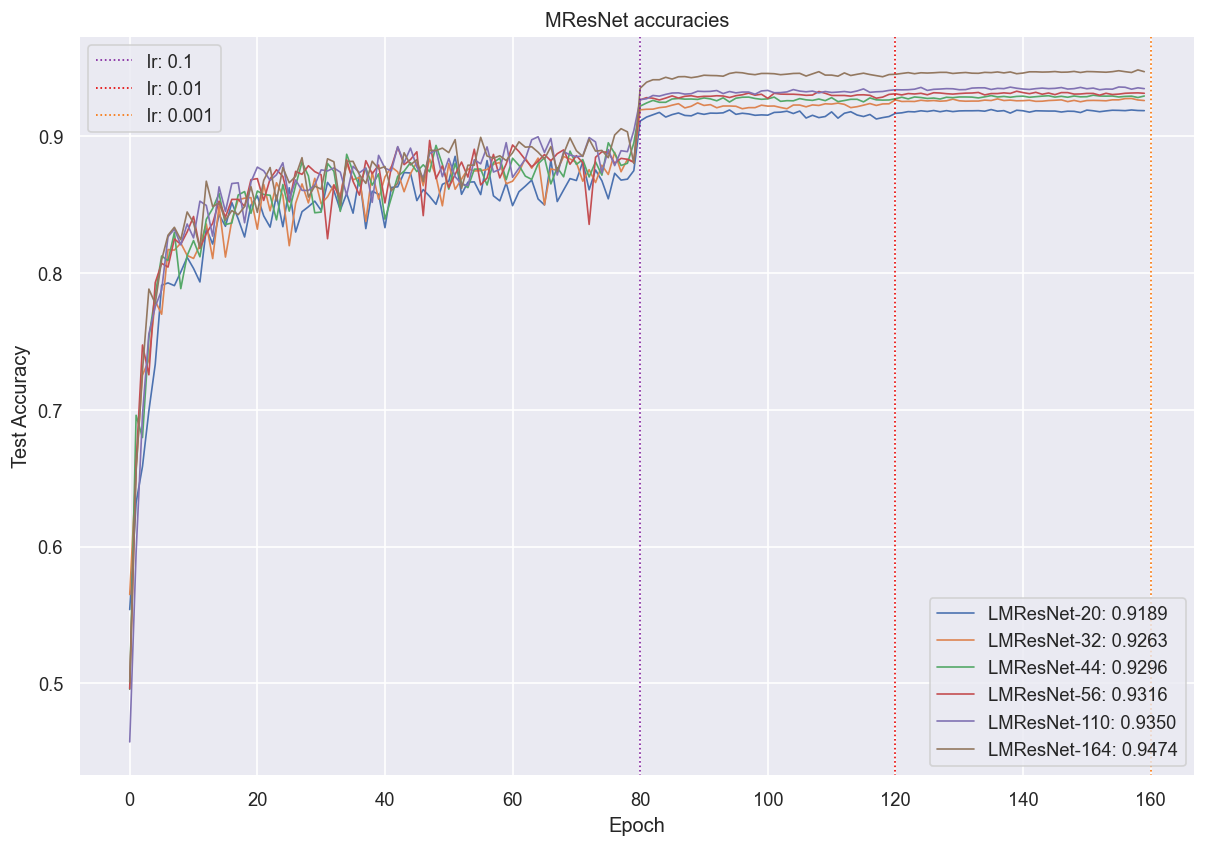
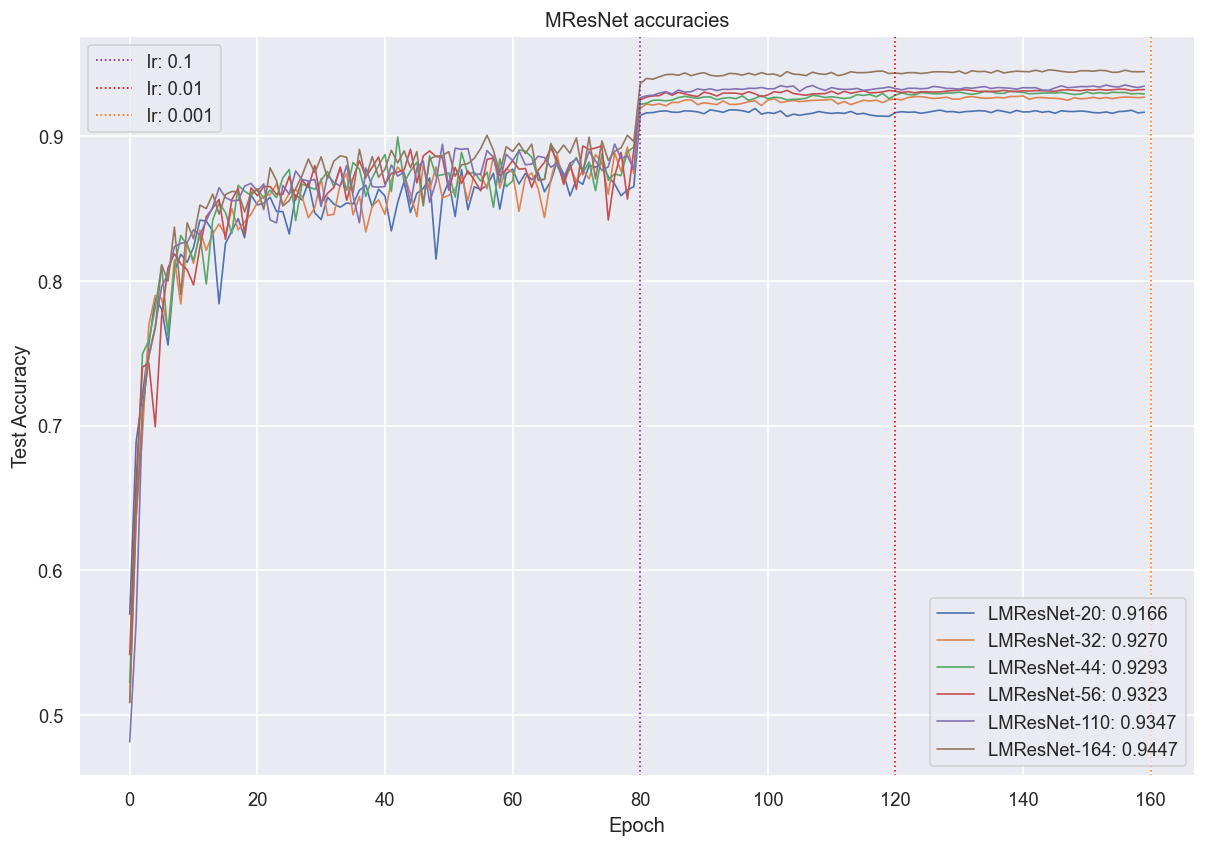
informe

diff --git a/informe/informe.tex b/informe/informe.tex
@@ -400,17 +400,16 @@ Todos los experimentos fueron llevados a cabo con CUDA 12.1 en una GPU Nvidia 20
 \cline{2-8}
  & \multicolumn{2}{c|}{\textbf{Replicación}} & \multicolumn{2}{c|}{\textbf{Paper}} &  &  &  \\ \cline{2-8}
  & \multicolumn{1}{c}{\textbf{Acc.}} & \multicolumn{1}{c|}{\textbf{Error (\%)}} & \multicolumn{1}{c}{\textbf{Acc.}} & \multicolumn{1}{c|}{\textbf{Error (\%)}} & \multicolumn{1}{c|}{\textbf{\begin{tabular}[c]{@{}c@{}}Diferencia\\ de error\end{tabular}}} & \multicolumn{1}{l|}{\textbf{\begin{tabular}[c]{@{}l@{}}Parametros\\ entrenables\end{tabular}}} & \textbf{\begin{tabular}[c]{@{}l@{}}Mult-Add\\ totales (G)\end{tabular}} \\ \hline
-\multicolumn{1}{|l|}{\textbf{MResNet-20}} & 0.9189 & 8.11 & 0.9167 & 8.33 & \multicolumn{1}{l|}{\cellcolor[HTML]{77DD77}+0.22} & \multicolumn{1}{l|}{273475} & 5.22 \\
-\multicolumn{1}{|l|}{\textbf{MResNet-32}} & 0.9263 & 7.37 & 0.9282 & 7.18 & \multicolumn{1}{l|}{\cellcolor[HTML]{FF6961}-0.19} & \multicolumn{1}{l|}{467913} & 8.85 \\
-\multicolumn{1}{|l|}{\textbf{MResNet-44}} & 0.9296 & 7.04 & 0.9334 & 6.66 & \multicolumn{1}{l|}{\cellcolor[HTML]{FF6961}-0.38} & \multicolumn{1}{l|}{662351} & 12.47 \\
-\multicolumn{1}{|l|}{\textbf{MResNet-56}} & 0.9316 & 6.84 & 0.9369 & 6.31 & \multicolumn{1}{l|}{\cellcolor[HTML]{FF6961}-0.53} & \multicolumn{1}{l|}{856789} & 16.10 \\
-\multicolumn{1}{|l|}{\textbf{MResNet-110}} & 0.9350 & 6.5 & 0.9384 & 6.16 & \multicolumn{1}{l|}{\cellcolor[HTML]{FF6961}-0.34} & \multicolumn{1}{l|}{1731760} & 32.40 \\
-\multicolumn{1}{|l|}{\textbf{MResNet-164}} & 0.9474 & 5.26 & 0.9473 & 5.27 & \multicolumn{1}{l|}{\cellcolor[HTML]{77DD77}+0.1} & \multicolumn{1}{l|}{1703760} & 31.70 \\ \hline
+\multicolumn{1}{|l|}{\textbf{MResNet-20}} & 0.9166 & 8.34 & 0.9167 & 8.33 & \multicolumn{1}{l|}{\cellcolor[HTML]{FFFFC7}-0.01} & \multicolumn{1}{l|}{273475} & 5.22 \\
+\multicolumn{1}{|l|}{\textbf{MResNet-32}} & 0.9270 & 7.30 & 0.9282 & 7.18 & \multicolumn{1}{l|}{\cellcolor[HTML]{FFCE93}-0.12} & \multicolumn{1}{l|}{467913} & 8.85 \\
+\multicolumn{1}{|l|}{\textbf{MResNet-44}} & 0.9293 & 7.07 & 0.9334 & 6.66 & \multicolumn{1}{l|}{\cellcolor[HTML]{FF6961}-0.41} & \multicolumn{1}{l|}{662351} & 12.47 \\
+\multicolumn{1}{|l|}{\textbf{MResNet-56}} & 0.9323 & 6.77 & 0.9369 & 6.31 & \multicolumn{1}{l|}{\cellcolor[HTML]{FF6961}-0.46} & \multicolumn{1}{l|}{856789} & 16.10 \\
+\multicolumn{1}{|l|}{\textbf{MResNet-110}} & 0.9347 & 6.53 & 0.9384 & 6.16 & \multicolumn{1}{l|}{\cellcolor[HTML]{FFFFC7}-0.08} & \multicolumn{1}{l|}{1731760} & 32.40 \\
+\multicolumn{1}{|l|}{\textbf{MResNet-164}} & 0.9447 & 5.53 & 0.9473 & 5.27 & \multicolumn{1}{l|}{\cellcolor[HTML]{FE996B}-0.26} & \multicolumn{1}{l|}{1703760} & 31.70 \\ \hline
 \end{tabular}
 \end{adjustbox}
 \caption{Tabla de resumen de resultados obtenidos.}
 \end{table}
-
 
 TODO Diferencia hiperparametros
 
@@ -434,6 +433,21 @@ TODO Diferencia hiperparametros
 \caption{Pérdida (cross-entropy) de cada modelo durante entrenamiento. Escala logarítmica.}
 \label{train_loss_log}
 \end{figure}
+
+\begin{figure}[H]
+\centering
+\includegraphics[width=\textwidth]{images/momentum.png}
+\caption{Momento aprendido en cada capa.}
+\label{momentum}
+\end{figure}
+
+\begin{figure}[H]
+\centering
+\includegraphics[width=\textwidth]{images/momentum_large.png}
+\caption{Momento aprendido en cada capa (modelos grandes).}
+\label{momentum_large}
+\end{figure}
+
 
 \section{Sistemas dinámicos estocásticos}
 En \cite{huang2016deep}, se propone, aleatoriamente eliminar un subset de capas y reemplazarlas por la función identidad. Se inicia con una red extremadamente profunda (incluso más de 1200 capas) para luego ir eliminando algunas durante cada epoch de entrenamiento. Por otro lado, \cite{gastaldi2017shakeshake} propone utilizar regularización shake-shake para mejorar los resultados de una red con múltiples ramas (como LM-Resnet), reemplazando la operación de suma como unión de ramas por una operación afín estocástica.
@@ -489,6 +503,36 @@ Donde $\mathbb{P}(\eta_n = 1) = p_n, \mathbb{P}(\eta_n = 0) = 1 - p_n$. Lo cual 
 El dataset se trata del mismo modo que para experimentos anteriores. En este caso, la probabilidad de eliminar un bloque residual en cada capa es un funcion lineal de la capa. Siendo $l$ la capa bajo consideración, la probabilidad de eliminar un bloque residual es $\dfrac{l}{L}(1 - p_L)$, donde $L$ refiere a la profundidad de la red y $p_L$ es la probabilidad asociada a la capa anterior a $l$.
 
 Para LM-ResNet56 se selecciona $p_L = 0.8$ y para LM-ResNet110 se selecciona $p_L = 0.5$. Se entrena utilizando descenso estocástico por gradiente con decaimiento de peso de 0.0001 y momento de 0.9. El factor de aprendizaje arranca en 0.1, pasa a ser 0.01 luego del epoch 250 y 0.001 luego del epoch 375. El entrenamiento termina a los 500 epochs.
+
+\subsubsection{Resultados obtenidos}
+
+\begin{figure}[H]
+\centering
+\includegraphics[width=\textwidth]{images/accuracy_sd.png}
+\caption{Accuracy sobre el set de test}
+\label{sd_test_set_acc}
+\end{figure}
+
+\begin{figure}[H]
+\centering
+\includegraphics[width=\textwidth]{images/loss_sd.png}
+\caption{Pérdida (cross-entropy) de cada modelo durante entrenamiento}
+\label{train_loss_sd}
+\end{figure}
+
+\begin{figure}[H]
+\centering
+\includegraphics[width=\textwidth]{images/loss_log_sd.png}
+\caption{Pérdida (cross-entropy) de cada modelo durante entrenamiento. Escala logarítmica.}
+\label{train_loss_log_sd}
+\end{figure}
+
+\begin{figure}[H]
+\centering
+\includegraphics[width=\textwidth]{images/momentum_sd.png}
+\caption{Momento aprendido en cada capa .}
+\label{sd_momentum}
+\end{figure}
 
 
 \section{Conclusión}
